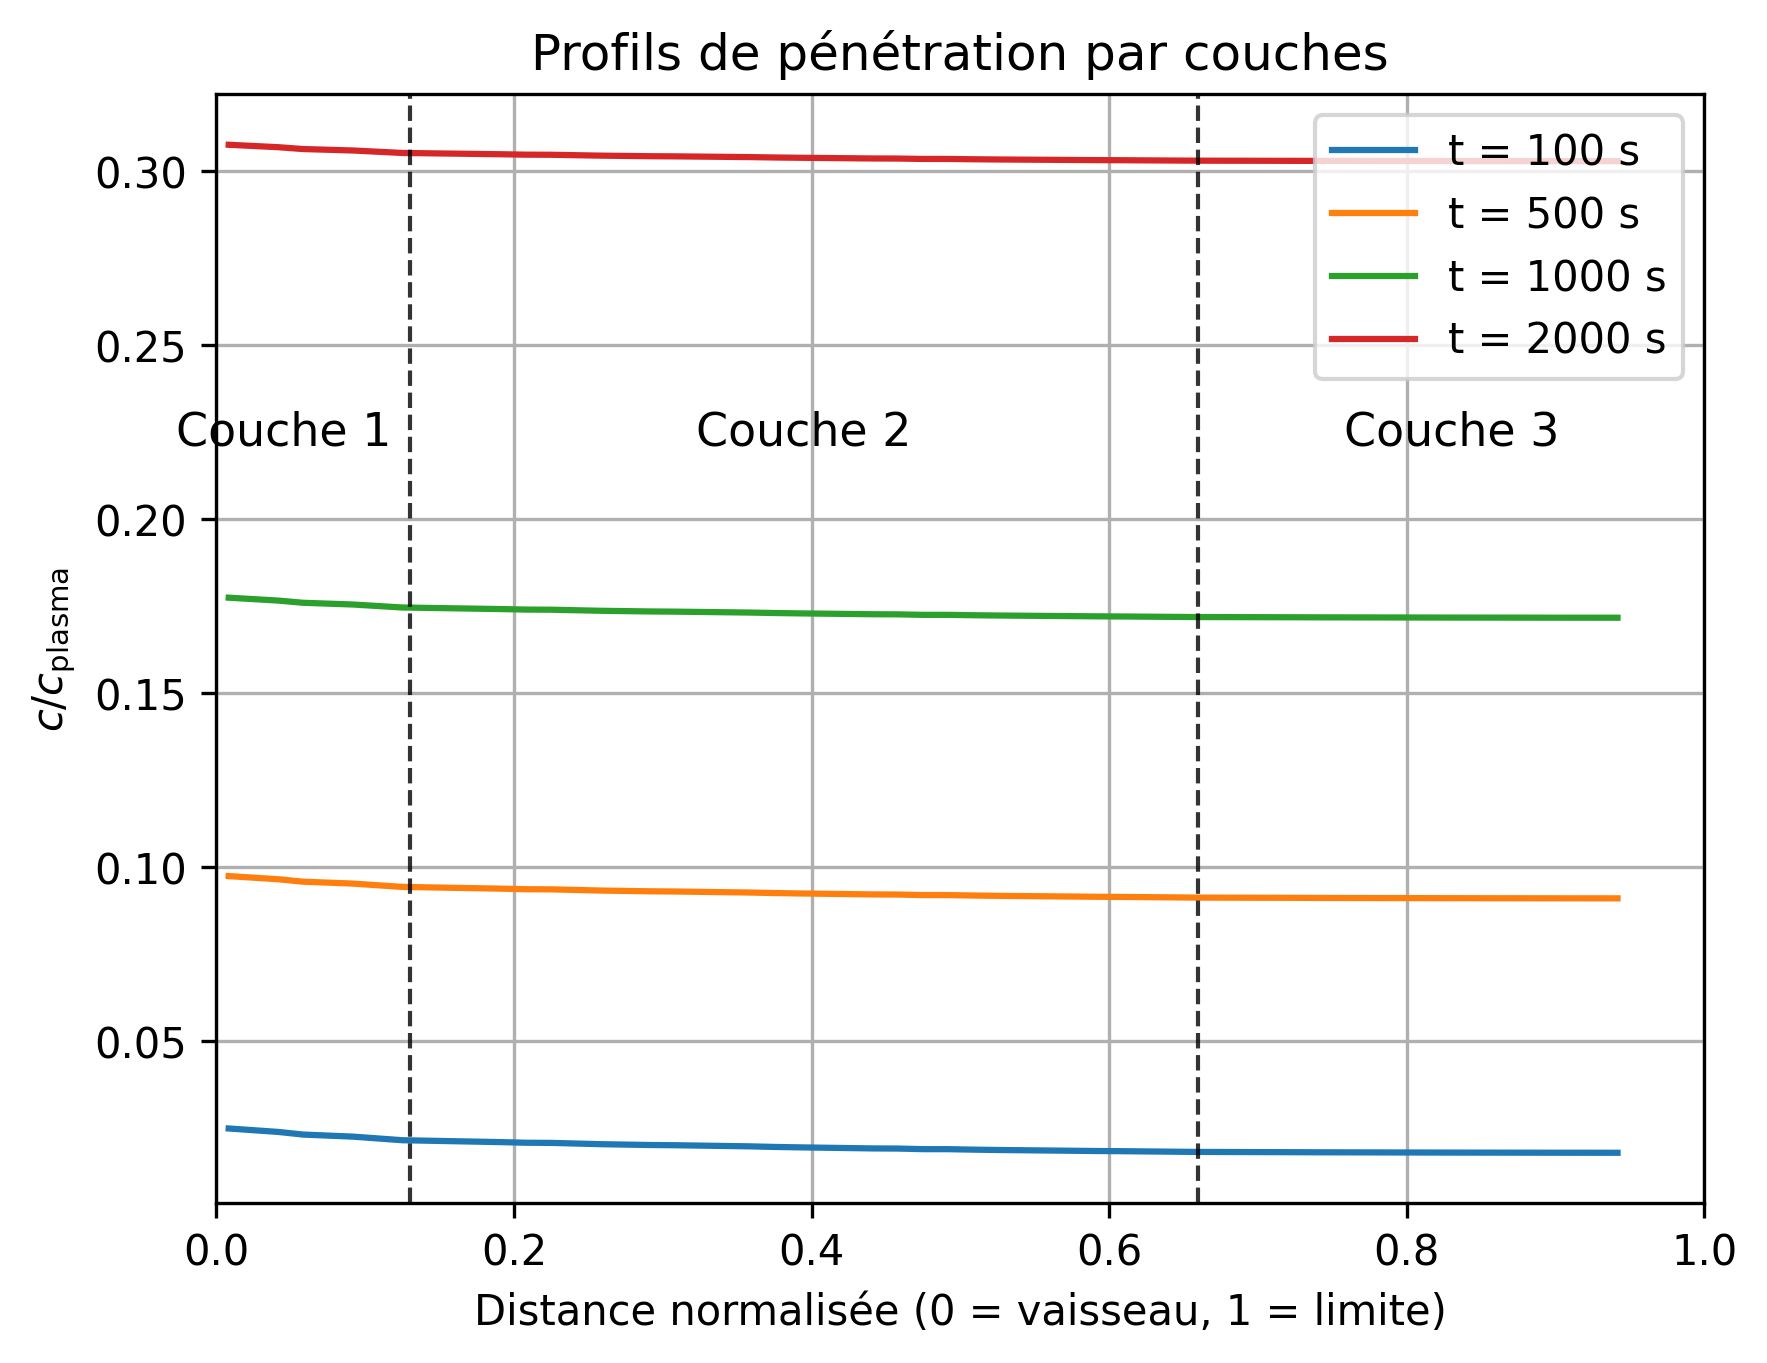
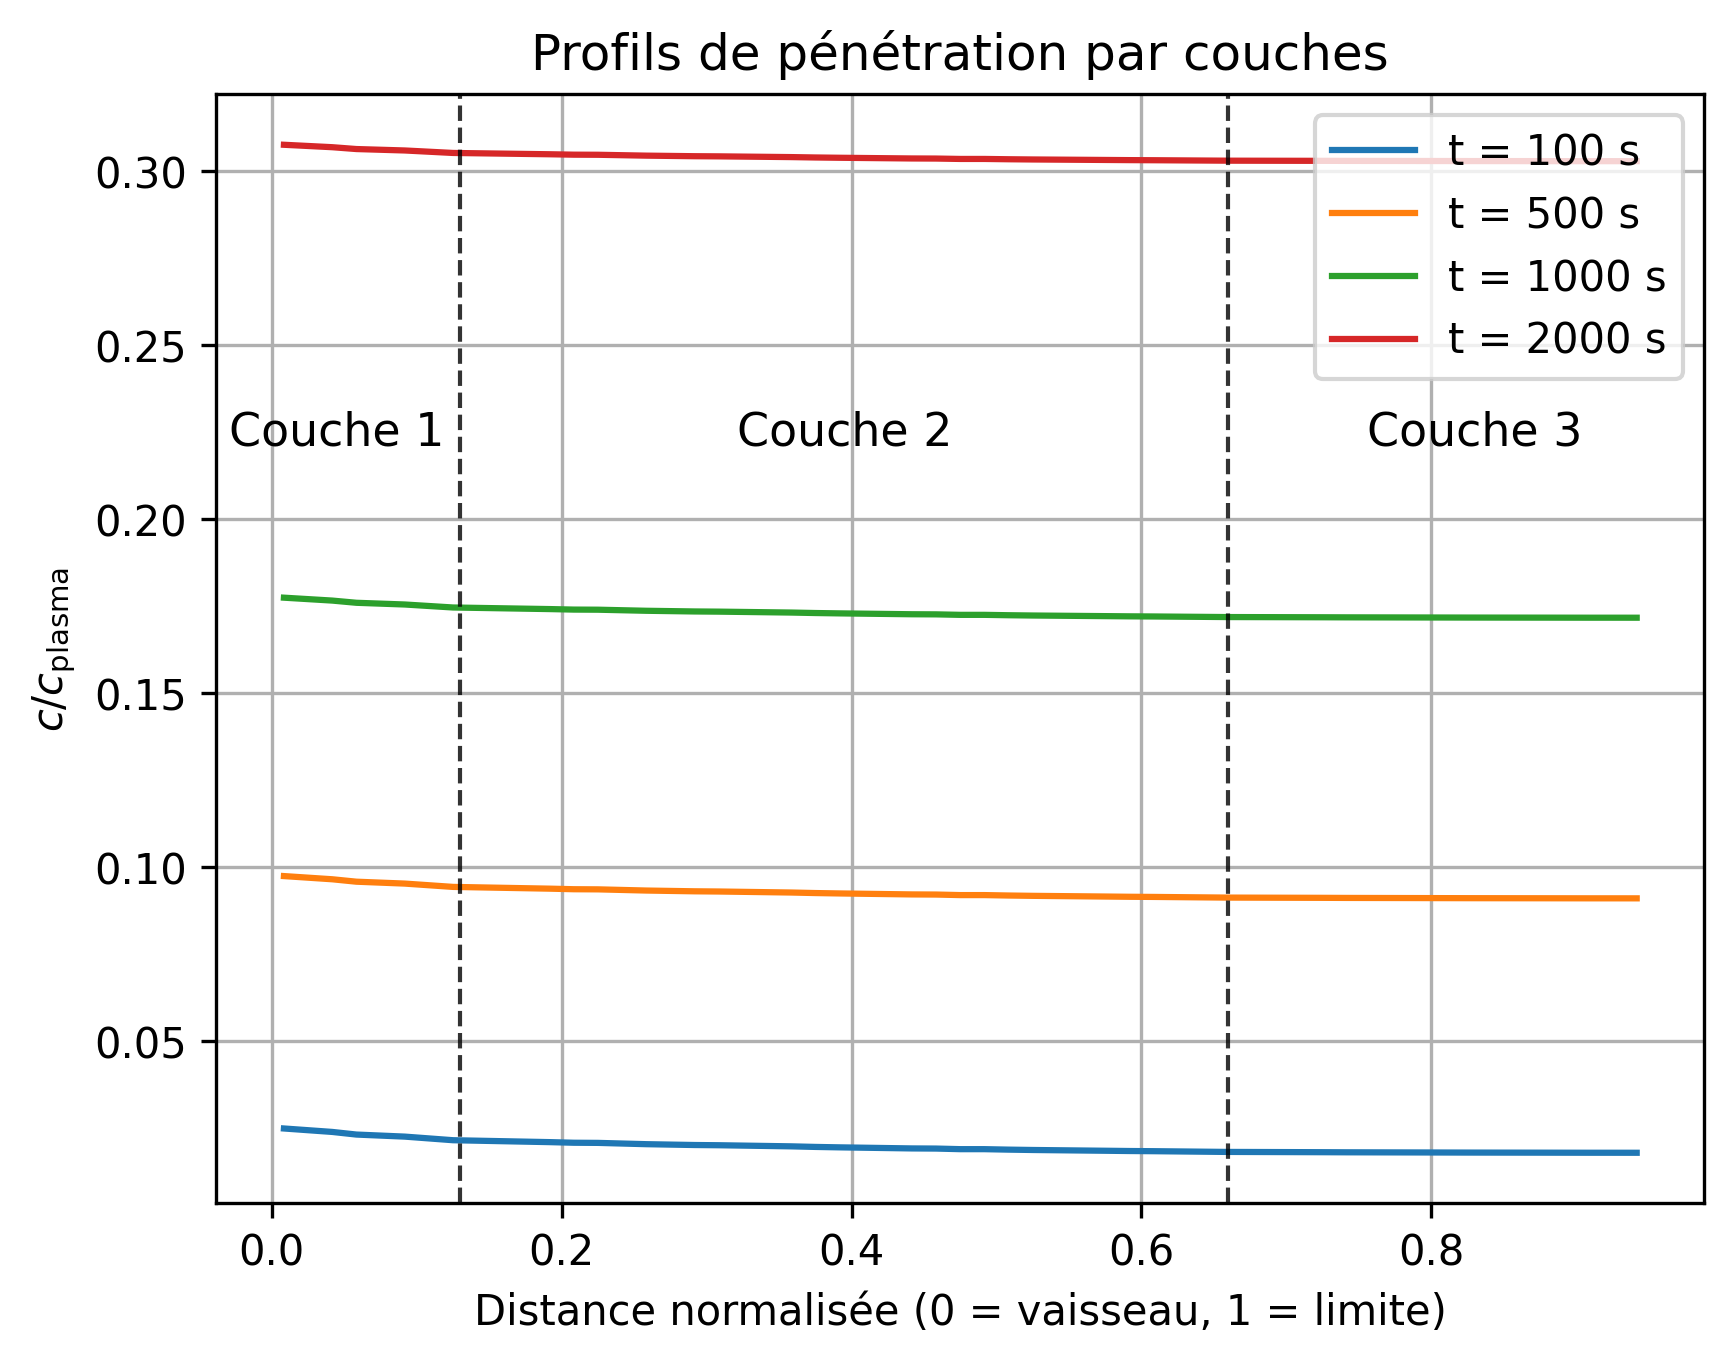
plots de penetration

diff --git a/main_multilayer.py b/main_multilayer.py
@@ -235,7 +235,7 @@ def main():
             cbar = plt.colorbar(contour, ax=ax, label="Concentration")
 
         ax.set_aspect('auto')
-        ax.set_title(f"Temps: {step * args.dt:.0f} s")
+        ax.set_title(f"Temps: {(step + 1) * args.dt:.0f} s")
         plt.draw()
         plt.pause(0.1)
 